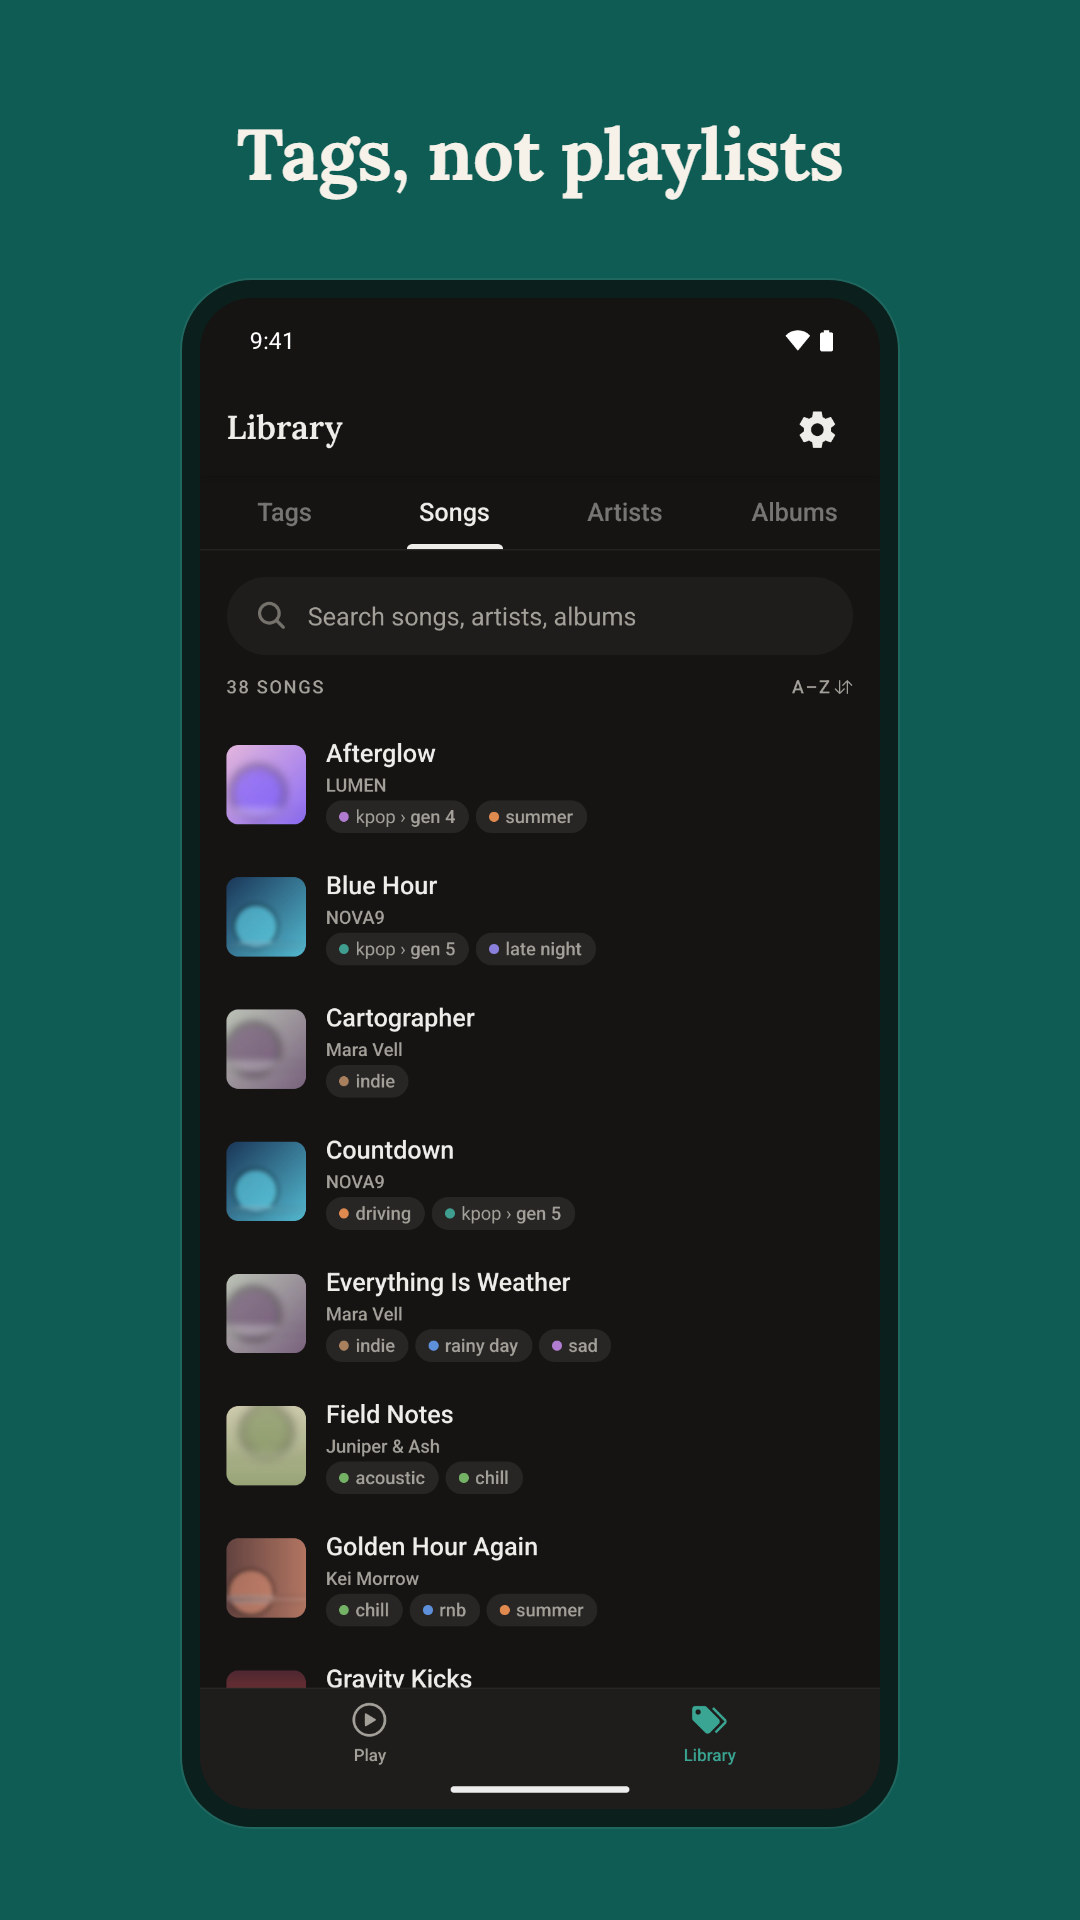
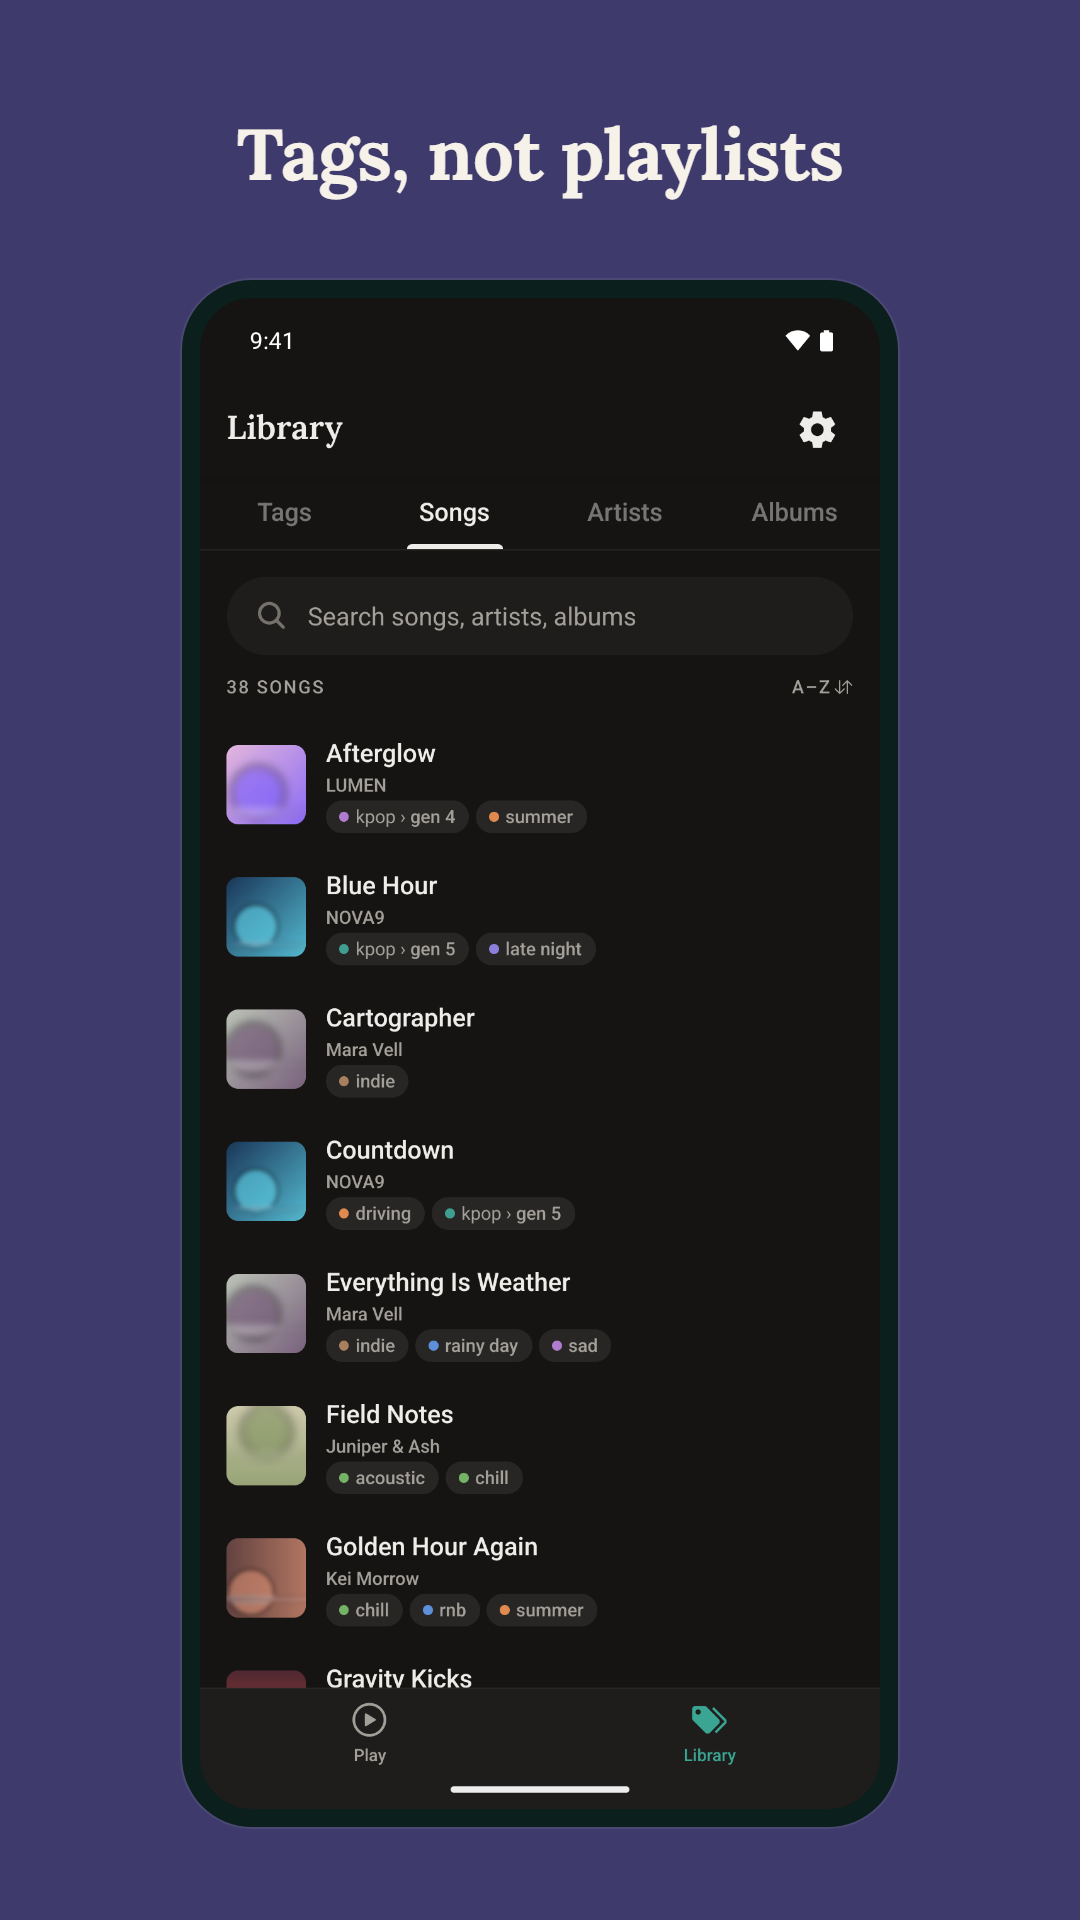
Store screenshots: a muted tag colour behind each

diff --git a/docs/store/source/frame.html b/docs/store/source/frame.html
@@ -22,6 +22,9 @@
     const q = new URLSearchParams(location.search);
     document.getElementById('caption').textContent = q.get('caption');
     document.getElementById('shot').src = q.get('shot');
+    // Optional colours: page background and caption ink, as hex without the #.
+    if (q.get('bg')) document.body.style.background = '#' + q.get('bg');
+    if (q.get('ink')) document.getElementById('caption').style.color = '#' + q.get('ink');
   </script>
 </body>
 </html>

diff --git a/NOTES.md b/NOTES.md
@@ -1308,3 +1308,4 @@ User found the chips/waning moon underwhelming; asked for a bar to drag or tap, 
 - 2026-11-04: Family layout says "inside": each family's subtags sit on the line under the parent, led by a › in the family's colour (the app's nesting mark, as in "kpop › gen 4"), their wrapped lines lined up after it. Before, the parent and children just shared a tinted box and read as a group. Checked with seven subtags on the emulator. Mock-ups: docs/mockups/family-nesting.html, family-path-wrap.html (picked A2: path below, over path beside the parent with a hanging indent, the tray look and a tree line).
 - 2026-11-04: Store screenshots in docs/store/ (1080×1920): the welcome flow's four titles as captions over the Songs list, the tag editor (Family), the pot and the player; flat potBand teal, whole phone in a potRecess-coloured frame, Lora captions. Made from a fake library of invented artists with generated covers (docs/store/source/make_library.py, which also writes the tags SQL) and rendered with headless Edge (docs/store/source/frame.html?shot=…&caption=…). Real artists and covers stay out of store images (Play IP rules); note the welcome screen's own example uses M83's Midnight City.
 - 2026-11-04: Emulator (ProTag_API36) now runs on the demo library: /sdcard/Music/Protag Demo (38 silent MP3s, invented artists, generated covers; included by hand in Folders since auto-detect reads their 32 kbit/s as voice), tags and play counts from docs/store/source/make_library.py's SQL. The old test tones are in /data/local/tmp/ProTagTest-aside (out of media storage). System dark mode on; dev menu's Tools button off (Ctrl+M or adb keyevent 82 opens the menu). For store shots, SystemUI demo mode gives a clean status bar (sysui_demo_allowed 1, then demo broadcasts: clock 0941, battery 100, wifi fully, mobile hide, notifications hidden).
+- 2026-11-04: Store screenshot backgrounds vary by image, muted tag colours (each echoing its screen): 1 indigo #3E3A6B, 2 plum #6B3550, 3 teal #0F5C54, 4 dusk blue #2F4C6E (user's pick over rust/ochre/terracotta; the first brown was muddy). Captions: Tags, not playlists · Tags can be nested · Mix tags into a shuffle · Your music, your tags. frame.html takes &bg=…&ink=… (hex without #). Render from Python's subprocess (shell loops lost files).
